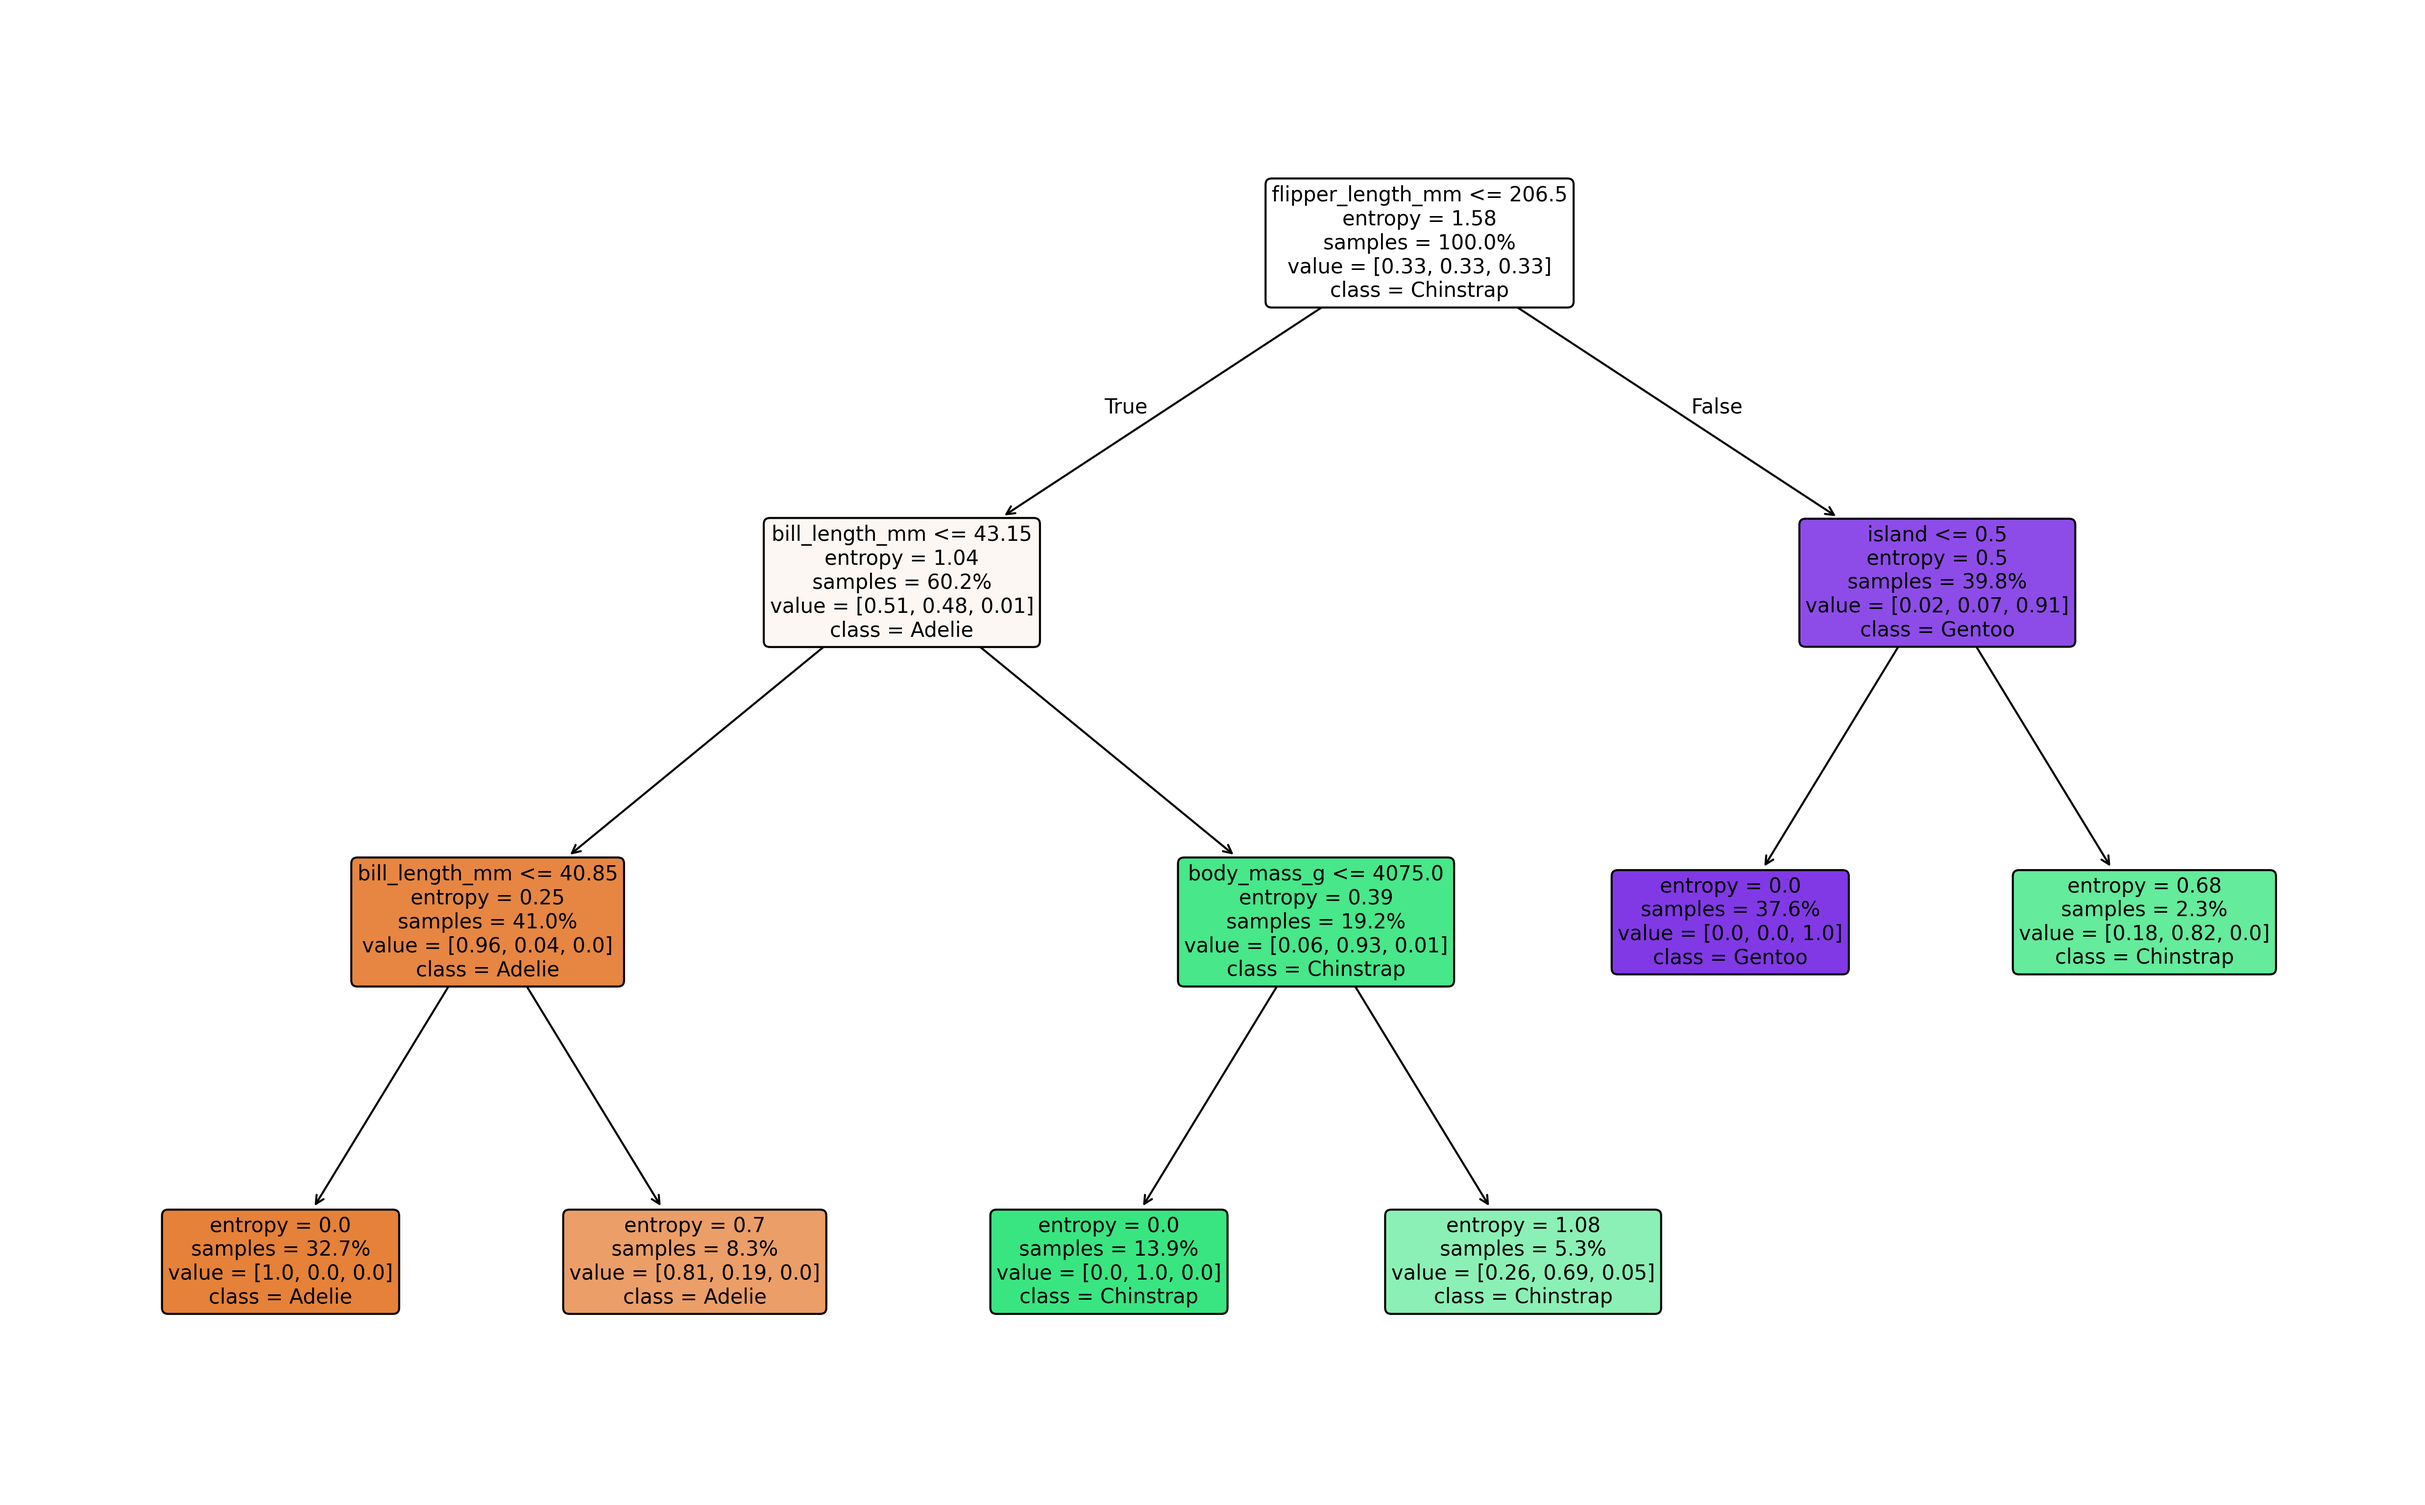
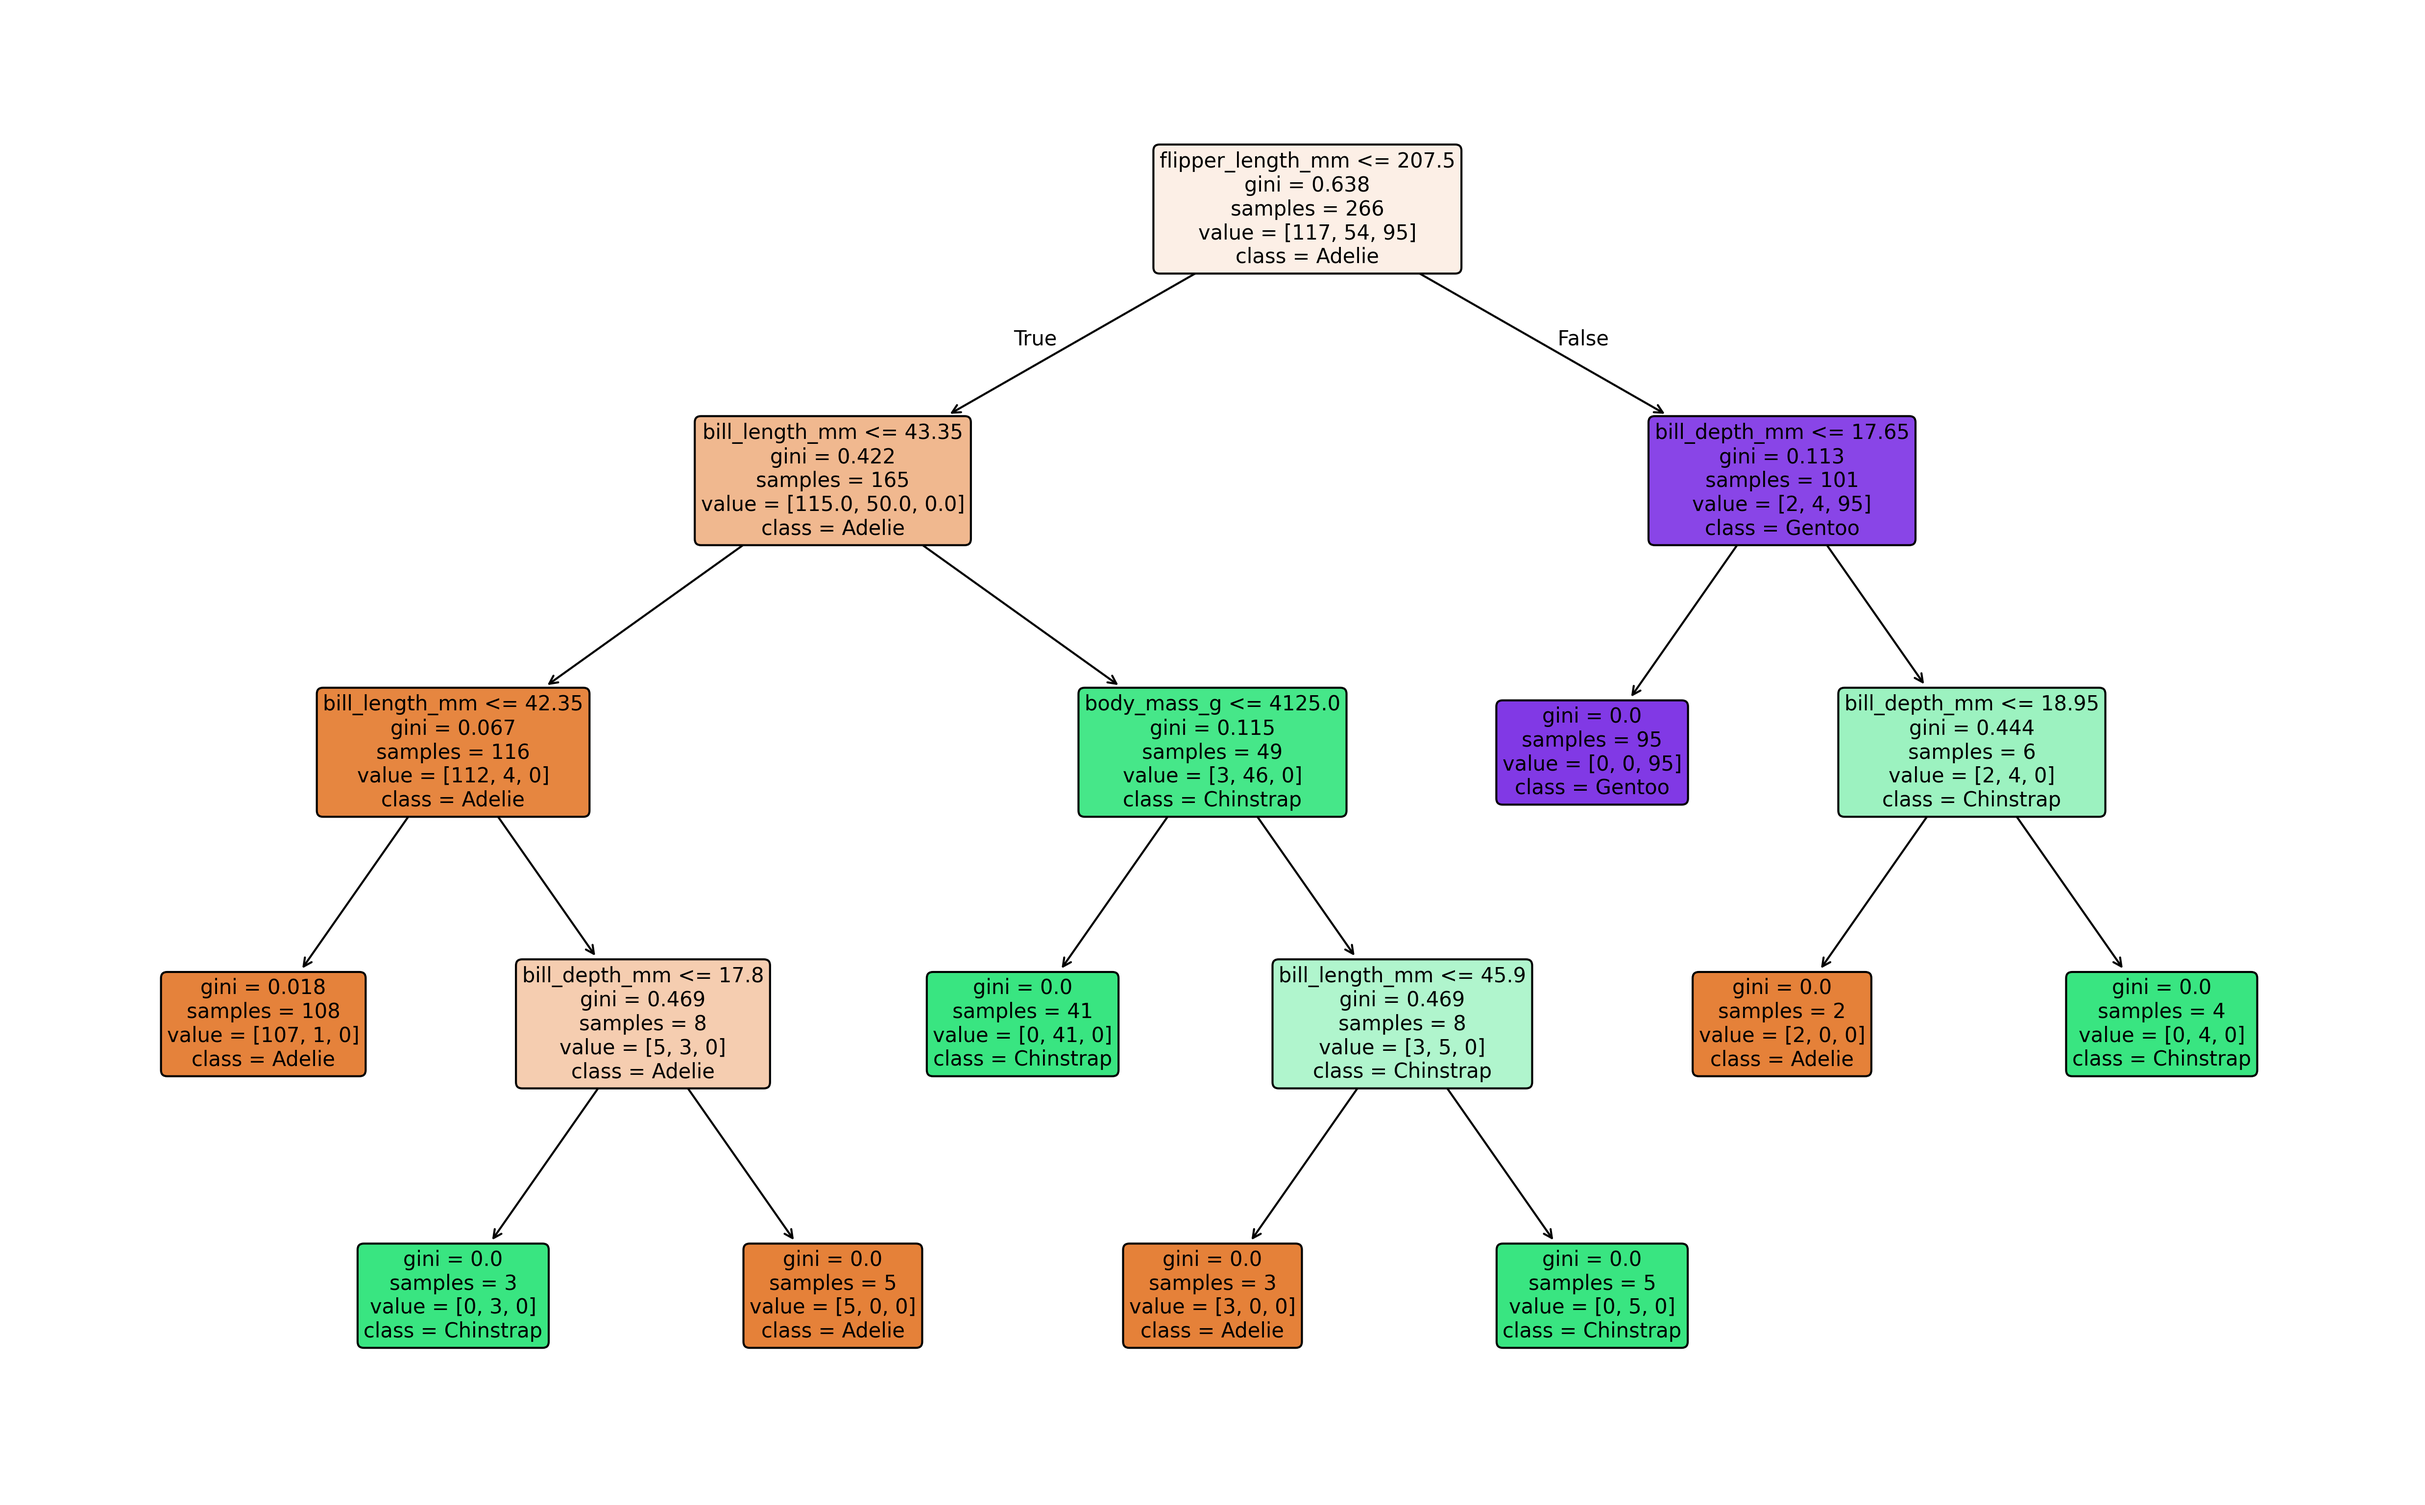
Project3: TASK 1 and 2 completed: Sparsity slider introduced

diff --git a/project3/templates/project3/decision_tree.html b/project3/templates/project3/decision_tree.html
@@ -9,6 +9,19 @@
     </div>
 
     <div class="main-text">
+        <div class="sparsity-control">
+            <h3>Tree Sparsity Control</h3>
+            <div class="slider-container">
+                <label for="lambda">Sparsity Parameter (λ): <span id="lambda-value">{{ lambda_param|floatformat:2 }}</span></label>
+                <input type="range" id="lambda" name="lambda" 
+                       min="0.01" max="1" step="0.01" 
+                       value="{{ lambda_param }}">
+            </div>
+            <p class="slider-description">
+                Higher values of α (alpha) lead to sparser trees through cost-complexity pruning.
+            </p>
+        </div>
+
         {% if success %}
             <div class="metrics-container">
                 <div class="metric-card">
@@ -26,7 +39,7 @@
                     <h3>Decision Tree Structure</h3>
                     <p class="description">The decision tree shows how the model splits the data to classify penguin species.</p>
                     <div class="image-container">
-                        <img src="{% static 'project3/decision_tree.png' %}" alt="Decision Tree" />
+                        <img src="{% static 'project3/decision_tree.png' %}?v={{ lambda_param }}" alt="Decision Tree" />
                     </div>
                 </div>
             </div>
@@ -45,7 +58,23 @@
     </div>
 </div>
 
+
 <style>
+.progress-bar {
+    width: 100%;
+    height: 20px;
+    background-color: #f0f0f0;
+    border-radius: 10px;
+    margin: 10px 0;
+}
+
+.progress-indicator {
+    width: 0%;
+    height: 100%;
+    background-color: #4CAF50;
+    border-radius: 10px;
+    transition: width 0.3s ease-in-out;
+}
     .box {
         width: 90%;
         max-width: 1200px;
@@ -167,5 +196,105 @@
             max-width: 300px;
         }
     }
+
+    .sparsity-control {
+        background-color: #f8f9fa;
+        padding: 20px;
+        border-radius: 12px;
+        margin: 20px 0;
+        box-shadow: 0 2px 4px rgba(0,0,0,0.1);
+    }
+
+    .slider-container {
+        margin: 20px 0;
+    }
+
+    .slider-container label {
+        display: block;
+        margin-bottom: 10px;
+        color: #2c3e50;
+    }
+
+    input[type="range"] {
+        width: 100%;
+        margin: 10px 0;
+    }
+
+    .slider-description {
+        color: #666;
+        font-size: 0.9rem;
+        margin-top: 10px;
+    }
+    .error-message {
+        background-color: #fee;
+        padding: 20px;
+        border-radius: 8px;
+        margin: 20px 0;
+        text-align: center;
+        color: #c00;
+    }
 </style>
+
+<script>
+document.getElementById('lambda').addEventListener('input', function(e) {
+    const value = parseFloat(e.target.value).toFixed(2);
+    document.getElementById('lambda-value').textContent = value;
+});
+
+document.getElementById('lambda').addEventListener('change', function(e) {
+    const value = parseFloat(e.target.value).toFixed(2);
+    const currentUrl = new URL(window.location.href);
+    currentUrl.searchParams.set('lambda', value);
+    window.location.href = currentUrl.toString();
+});
+</script>
+
+<script>
+document.getElementById('training-form').addEventListener('submit', function(e) {
+    e.preventDefault();
+    
+    // Show progress container
+    document.getElementById('progress-container').style.display = 'block';
+    const progressMessage = document.getElementById('progress-message');
+    const progressBar = document.querySelector('.progress-indicator');
+    
+    // Submit the form data
+    fetch(this.action, {
+        method: 'POST',
+        body: new FormData(this),
+    })
+    .then(response => {
+        if (!response.ok) throw new Error('Network response was not ok');
+        return response.text();
+    })
+    .then(html => {
+        // Update progress stages
+        const stages = [
+            'Training model...',
+            'Calculating metrics...',
+            'Creating visualization...',
+            'Converting tree structure...',
+            'Saving results...',
+            'Complete!'
+        ];
+        
+        let currentStage = 0;
+        const intervalId = setInterval(() => {
+            if (currentStage < stages.length) {
+                progressMessage.textContent = stages[currentStage];
+                progressBar.style.width = `${(currentStage + 1) * (100/stages.length)}%`;
+                currentStage++;
+            } else {
+                clearInterval(intervalId);
+                // Refresh the page to show results
+                location.reload();
+            }
+        }, 1000);
+    })
+    .catch(error => {
+        progressMessage.textContent = 'Error: ' + error.message;
+        progressMessage.style.color = 'red';
+    });
+});
+</script>
 {% endblock %}

diff --git a/project3/views.py b/project3/views.py
@@ -67,16 +67,19 @@ def index(request):
 from django.shortcuts import render
 from palmerpenguins import load_penguins
 import pandas as pd
-from sklearn.tree import DecisionTreeClassifier, plot_tree
-from sklearn.preprocessing import LabelEncoder
 from sklearn.model_selection import train_test_split
+from sklearn.preprocessing import LabelEncoder
 import matplotlib.pyplot as plt
 import os
 from django.conf import settings
+from django.http import JsonResponse
 
 def decision_tree(request):
     try:
-        # Load data
+        # Get sparsity parameter from request
+        ccp_alpha = float(request.GET.get('lambda', 0.01))  # default to 0.01
+        
+        # Load and prepare data
         penguins = load_penguins()
         penguins = penguins.dropna()
         
@@ -84,71 +87,61 @@ def decision_tree(request):
         y = penguins['species']
         X = penguins.drop(['species'], axis=1)
         
-        # Convert categorical variables
+        # Encode categorical variables
         le = LabelEncoder()
         X['sex'] = le.fit_transform(X['sex'].astype(str))
-        X['island'] = le.fit_transform(X['island'])
-        
+        X['island'] = le.fit_transform(X['island'].astype(str))
+
         # Split data
-        X_train, X_test, y_train, y_test = train_test_split(X, y, test_size=0.2, random_state=42)
-        
-        # Train decision tree with better parameters
-        clf = DecisionTreeClassifier(
-            random_state=42, 
-            max_depth=3,
-            min_samples_split=20,
-            criterion='entropy',
-            class_weight='balanced'
+        X_train, X_test, y_train, y_test = train_test_split(
+            X, y, test_size=0.2, random_state=42, stratify=y
         )
-        clf.fit(X_train, y_train)
+
+        # Initialize and train the model
+        model = DecisionTreeClassifier(
+            ccp_alpha=ccp_alpha,  # Cost complexity pruning parameter
+            random_state=42,
+            max_depth=5  # Limit depth for visualization clarity
+        )
         
-        # Get metrics
-        accuracy = clf.score(X_test, y_test)
-        n_leaves = clf.get_n_leaves()
+        print("Training model...")
+        model.fit(X_train, y_train)
+
+        # Calculate metrics
+        print("Calculating metrics...")
+        accuracy = model.score(X_test, y_test)
+        n_leaves = model.get_n_leaves()
         
-        # Calculate feature importance
-        feature_importance = pd.DataFrame({
-            'feature': X.columns,
-            'importance': clf.feature_importances_
-        }).sort_values('importance', ascending=False)
+        print(f"Accuracy: {accuracy:.4f}")
+        print(f"Number of leaves: {n_leaves}")
         
-        # Create tree visualization with enhanced styling
+        # Create visualization
+        print("Creating visualization...")
         plt.figure(figsize=(20, 12))
-        plt.title('Palmer Penguins Decision Tree Classification', pad=20, size=16)
-        plot_tree(clf, 
+        plt.title(f'Palmer Penguins Decision Tree (α={ccp_alpha})', pad=20, size=16)
+        
+        from sklearn.tree import plot_tree
+        plot_tree(model, 
                  feature_names=X.columns,
-                 class_names=clf.classes_,
+                 class_names=model.classes_,
                  filled=True,
                  rounded=True,
-                 fontsize=10,
-                 proportion=True,
-                 precision=2)
-        
-        # Save the main tree plot
+                 fontsize=10)
+
+        # Save visualization
+        print("Saving visualization...")
         static_dir = os.path.join(settings.BASE_DIR, 'static', 'project3')
         os.makedirs(static_dir, exist_ok=True)
         plt.savefig(os.path.join(static_dir, 'decision_tree.png'), 
-                   dpi=300, 
-                   bbox_inches='tight',
-                   pad_inches=0.5)
+                   dpi=300, bbox_inches='tight', pad_inches=0.5)
         plt.close()
-        
-        # Create feature importance plot
-        plt.figure(figsize=(10, 6))
-        plt.title('Feature Importance in Classification', pad=20, size=14)
-        sns.barplot(data=feature_importance, x='importance', y='feature', palette='viridis')
-        plt.xlabel('Importance Score')
-        plt.ylabel('Features')
-        plt.tight_layout()
-        plt.savefig(os.path.join(static_dir, 'feature_importance.png'), 
-                   dpi=300, 
-                   bbox_inches='tight')
-        plt.close()
+
+        print("Process complete!")
         
         context = {
             'accuracy': round(accuracy * 100, 2),
             'n_leaves': n_leaves,
-            'features': feature_importance.to_dict('records'),
+            'lambda_param': ccp_alpha,  # Keep the same parameter name for template compatibility
             'success': True,
             'error_message': None
         }
